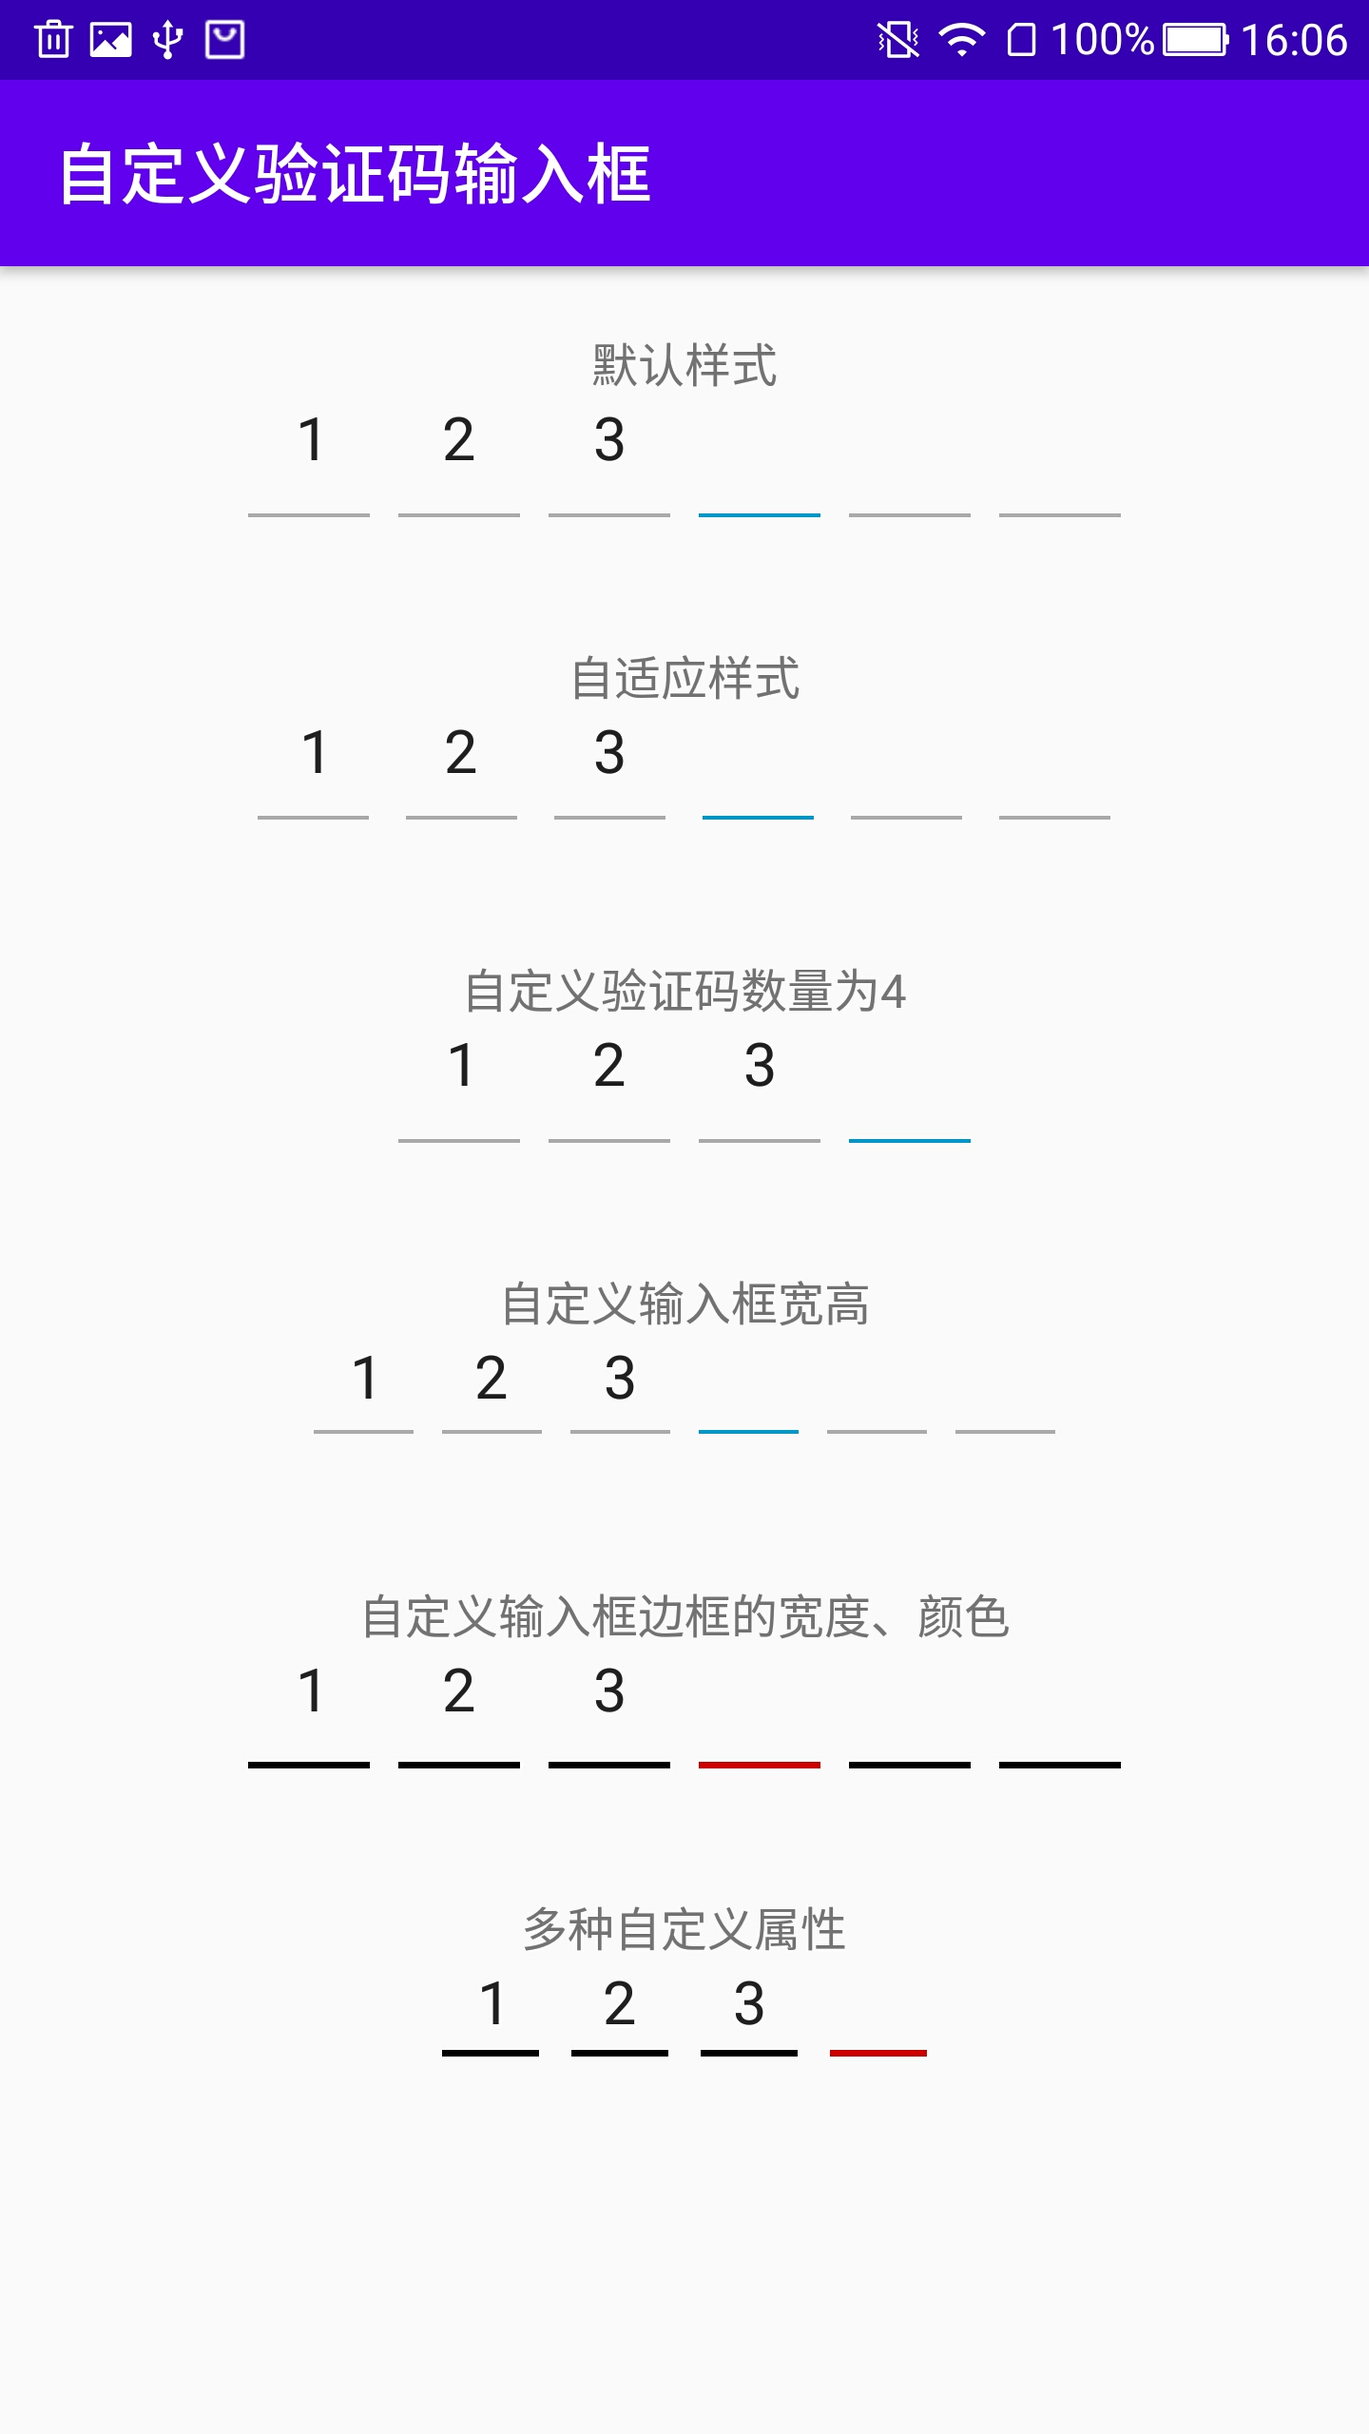
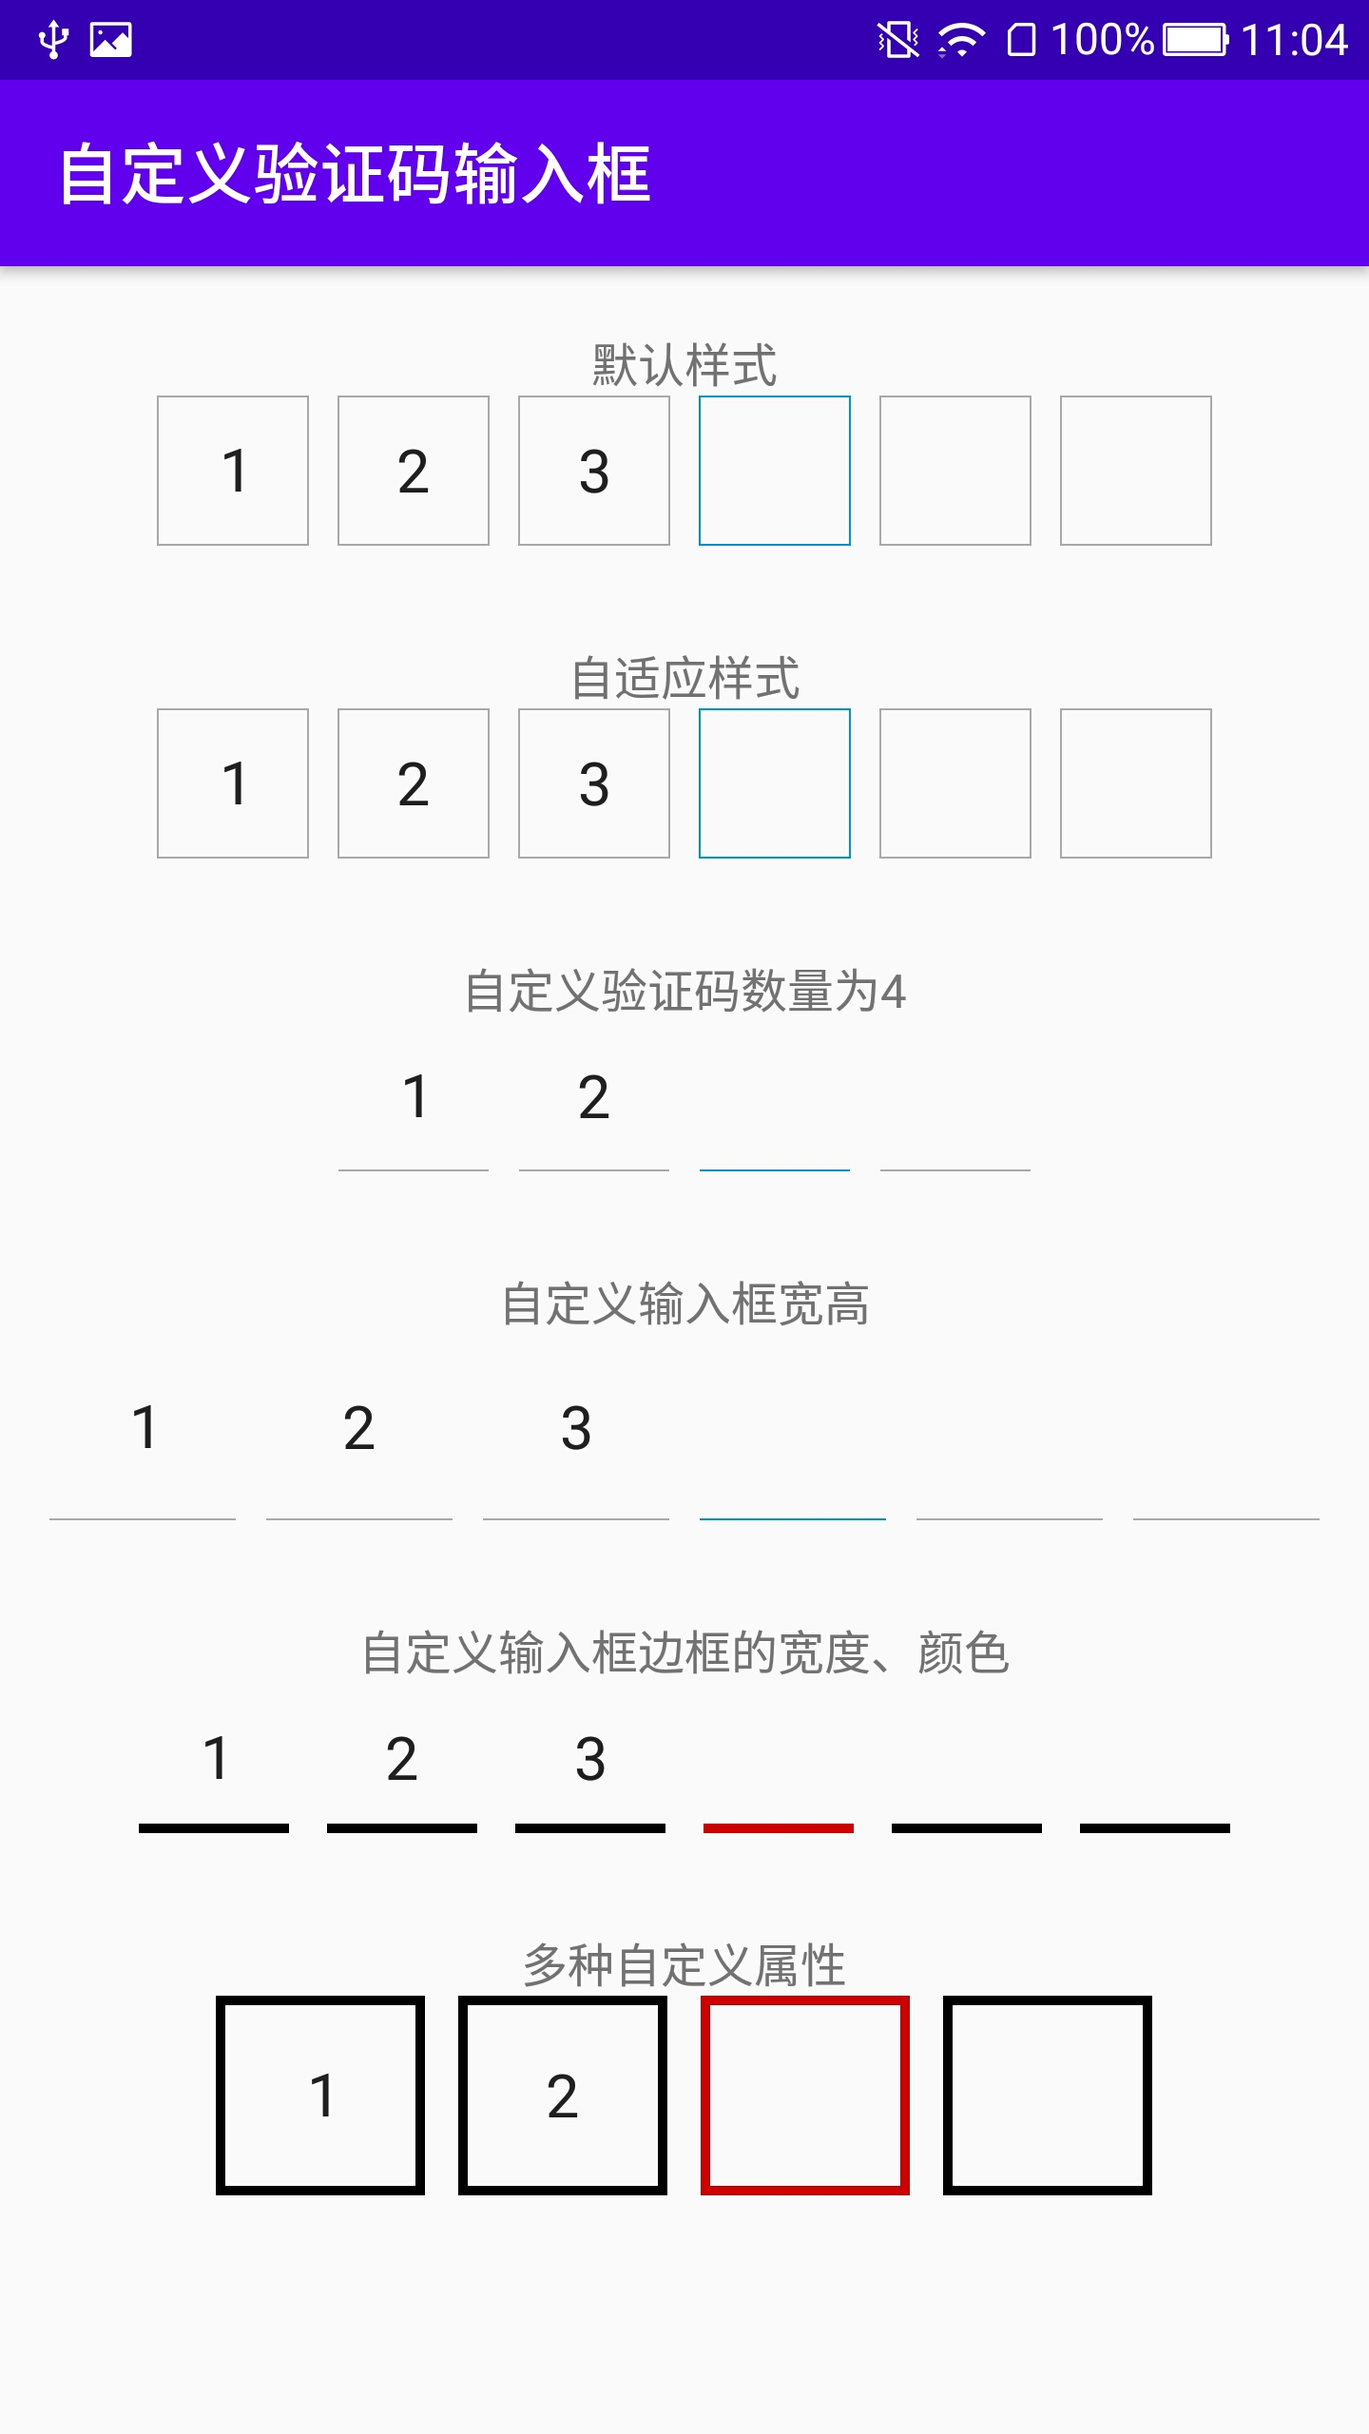
新增矩形输入框
优化输入框绘制及数字绘制；
新增矩形输入框样式：目前可选矩形输入框和线型输入框

diff --git a/view/src/main/java/com/cocoas/view/VerifyCodeInputView.java b/view/src/main/java/com/cocoas/view/VerifyCodeInputView.java
@@ -25,25 +25,34 @@ import androidx.appcompat.widget.AppCompatEditText;
  */
 public class VerifyCodeInputView extends AppCompatEditText {
 
-    //输入框宽度
+    private static final String TAG = "VerifyCodeInputView";
+    /** 输入框类型常量 */
+    private interface BoxType{
+        int LINE = 0;// 底部横线输入框
+        int RECT = 1;// 矩形输入框
+    }
+
+    /*自定义属性↓↓↓*/
+    // 输入框宽度
     private int boxWidth = 128;
-    //输入框高度
+    // 输入框高度
     private int boxHeight = 128;
-    //输入框边框高度
-    private int boxBorderHeight = 4;
-    //输入框间距
+    // 输入框边框高度
+    private int boxBorderHeight = 2;
+    // 输入框间距
     private int boxSpacing = 30;
-    //输入框数量：默认6个
+    // 输入框数量：默认6个
     private int boxCount = 6;
-    //输入框边框默认颜色
+    // 输入框边框默认颜色
     private int boxBorderColorNormal = getResources().getColor(android.R.color.darker_gray);
-    //输入框边框高亮颜色
+    // 输入框边框高亮颜色
     private int boxBorderColorFocused = getResources().getColor(android.R.color.holo_blue_dark);
-    //输入框是否自动适应父布局宽度：如果不自动适应，则以设定的宽高为准
-    private boolean autoFit = false;
-    //输入框宽度与输入框间间距的比例
-    private int spacingRate = 3;
-    //输入框尺寸
+    // 输入框是否自动适应父布局宽度：如果不自动适应，则以设定的宽高为准
+    private boolean autoFit;
+    // 输入框类型
+    private int boxType = BoxType.LINE;
+    /*自定义属性↑↑↑*/
+    //输入框Rect
     private Rect boxRect = new Rect();
     //输入完成监听
     private OnInputFinishedListener onInputFinishedListener;
@@ -56,25 +65,27 @@ public class VerifyCodeInputView extends AppCompatEditText {
         int indexCount = typedArray.getIndexCount();
         //遍历获取自定义属性的值
         for (int i = 0; i < indexCount; i++) {
-            int index = typedArray.getIndex(i);
-            if (index == R.styleable.VerifyCodeInputViewStyle_boxWidth) {
-                this.boxWidth = (int) typedArray.getDimension(index, boxWidth);
-            } else if (index == R.styleable.VerifyCodeInputViewStyle_boxHeight) {
-                this.boxHeight = (int) typedArray.getDimension(index, boxHeight);
-            } else if (index == R.styleable.VerifyCodeInputViewStyle_boxBorderHeight) {
-                this.boxBorderHeight = (int) typedArray.getDimension(index, boxBorderHeight);
-            } else if (index == R.styleable.VerifyCodeInputViewStyle_boxSpacing) {
-                this.boxSpacing = (int) typedArray.getDimension(index, boxSpacing);
-            } else if (index == R.styleable.VerifyCodeInputViewStyle_boxCount) {
-                this.boxCount = typedArray.getInt(index, boxCount);
-            } else if (index == R.styleable.VerifyCodeInputViewStyle_boxBorderColorNormal) {
-                this.boxBorderColorNormal = typedArray.getColor(index,
+            int attr = typedArray.getIndex(i);
+            if (attr == R.styleable.VerifyCodeInputViewStyle_boxWidth) {
+                this.boxWidth = (int) typedArray.getDimension(attr, boxWidth);
+            } else if (attr == R.styleable.VerifyCodeInputViewStyle_boxHeight) {
+                this.boxHeight = (int) typedArray.getDimension(attr, boxHeight);
+            } else if (attr == R.styleable.VerifyCodeInputViewStyle_boxBorderHeight) {
+                this.boxBorderHeight = (int) typedArray.getDimension(attr, boxBorderHeight);
+            } else if (attr == R.styleable.VerifyCodeInputViewStyle_boxSpacing) {
+                this.boxSpacing = (int) typedArray.getDimension(attr, boxSpacing);
+            } else if (attr == R.styleable.VerifyCodeInputViewStyle_boxCount) {
+                this.boxCount = typedArray.getInt(attr, boxCount);
+            } else if (attr == R.styleable.VerifyCodeInputViewStyle_boxBorderColorNormal) {
+                this.boxBorderColorNormal = typedArray.getColor(attr,
                         getResources().getColor(android.R.color.darker_gray));
-            } else if (index == R.styleable.VerifyCodeInputViewStyle_boxBorderColorFocused) {
-                this.boxBorderColorFocused = typedArray.getColor(index,
+            } else if (attr == R.styleable.VerifyCodeInputViewStyle_boxBorderColorFocused) {
+                this.boxBorderColorFocused = typedArray.getColor(attr,
                         getResources().getColor(android.R.color.holo_blue_dark));
-            } else if (index == R.styleable.VerifyCodeInputViewStyle_autoFit) {
-                this.autoFit = typedArray.getBoolean(index, false);
+            } else if (attr == R.styleable.VerifyCodeInputViewStyle_autoFit) {
+                this.autoFit = typedArray.getBoolean(attr, false);
+            } else if (attr == R.styleable.VerifyCodeInputViewStyle_boxType) {
+                this.boxType = typedArray.getInt(attr, BoxType.LINE);
             }
         }
         //使用完TypedArray及时回收，以供其他模块使用
@@ -93,10 +104,11 @@ public class VerifyCodeInputView extends AppCompatEditText {
      * 自动计算输入框宽高和间距
      */
     private void calculateAttrs(int width) {
-        boxSpacing = width / ((spacingRate + 1) * boxCount - 1);
+        // 计算输入框间间距
+        boxSpacing = (width - (boxBorderHeight + boxWidth) * boxCount) / ( boxCount - 1);
 //		Logger.d("getMeasuredWidth()=" + width);
-        boxWidth = boxSpacing * spacingRate;
-        boxHeight = boxWidth;
+//        boxWidth = boxSpacing * spacingRate;
+//        boxHeight = boxWidth;
 //		Logger.w("boxWidth=" + boxWidth + ",boxHeight=" + boxHeight + ",boxSpacing=" + boxSpacing);
     }
 
@@ -125,14 +137,19 @@ public class VerifyCodeInputView extends AppCompatEditText {
         //输入框当前的尺寸与通过自定义属性设置的尺寸进行比较
         int width = getMeasuredWidth();
         int height = getMeasuredHeight();
-//		Logger.w("onMeasure+(" + width + "," + height + ")");
         int widthSpecModel = MeasureSpec.getMode(widthMeasureSpec);
         int heightSpecModel = MeasureSpec.getMode(heightMeasureSpec);
-        //比较输入框当前的高度是否符合设定的高度boxHeight
+        // 比较输入框默认的高度（根据字体大小等自动计算的高度）是否符合设定的高度boxHeight
+        // 最终的高度不能小于输入框默认的高度，以防止输入的数字显示有问题
         if (height < boxHeight) {
             height = boxHeight;
+        }else{
+            // 重置输入框的高度为默认高度
+            boxHeight = height;
         }
-        int actualWidth = boxWidth * boxCount + boxSpacing * (boxCount - 1);
+        // 设置单个输入框的宽高相同
+        boxWidth = boxHeight;
+        int actualWidth = (boxWidth + boxBorderHeight) * boxCount + boxSpacing * (boxCount - 1);
         if (widthSpecModel == MeasureSpec.AT_MOST) {
             width = actualWidth;
         }
@@ -158,35 +175,118 @@ public class VerifyCodeInputView extends AppCompatEditText {
 
     @Override
     protected void onDraw(Canvas canvas) {
-        // 重新绘制输入框
-        drawBox(canvas);
+        // 重新绘制输入框：根据设定的输入框类型属性进行绘制
+        switch (boxType){
+            case BoxType.RECT:// 矩形输入框
+                drawBox(canvas);
+                break;
+            case BoxType.LINE:// 底部横线输入框
+            default:
+                drawLineBox(canvas);
+                break;
+        }
+        // 绘制数字
         drawNumber(canvas);
+//        drawCenterLine(canvas);
     }
 
     /**
-     * 绘制单个数字的输入框
-     *
+     * 绘制中轴线用于校正数字的位置
      * @param canvas
      */
-    private void drawBox(Canvas canvas) {
-        //单个数字输入框的坐标
-        boxRect.left = 0;
-        boxRect.top = boxHeight - boxBorderHeight;
-        boxRect.right = boxWidth;
-        boxRect.bottom = boxHeight;
-        //输入框画笔
+    private void drawCenterLine(Canvas canvas){
+        //获取当前画布保存的状态
+        int saveCount = canvas.getSaveCount();
+        //画布归位
+        canvas.translate(0, 0);
+        //画笔
+        Paint linePaint = new Paint();
+        linePaint.setColor(Color.RED);
+        // 画线段
+        canvas.drawLine(0,boxHeight/2,canvas.getWidth(),boxHeight/2,linePaint);
+        //画布还原
+        canvas.restoreToCount(saveCount);
+    }
+
+    /**
+     * 绘制只有底部横线的输入框
+     * @param canvas
+     */
+    private void drawLineBox(Canvas canvas){
+        // 计算线段坐标（需要考虑画笔的宽度）
+        float startX = boxBorderHeight/2;
+        float startY = boxHeight - boxBorderHeight/2;
+        float stopX = startX + boxWidth;
+        float stopY = startY;
+        /*创建输入框画笔*/
         Paint boxPaint = new Paint();
         //普通输入框颜色
         boxPaint.setColor(boxBorderColorNormal);
+        // 设置画笔样式：描边
+        boxPaint.setStyle(Paint.Style.STROKE);
+        // 设置画笔宽度
+        boxPaint.setStrokeWidth(boxBorderHeight);
         //当前画布保存的状态
         int canvasSaveCount = canvas.getSaveCount();
         //保存画布
         canvas.save();
-        //遍历绘制所有数字输入框
+        /*遍历绘制所有数字输入框*/
+        for (int i = 0; i < boxCount; i++) {
+            canvas.drawLine(startX,startY,stopX,stopY, boxPaint);
+            //计算下一个数字输入框的位置
+            int nextBoxLeft = boxWidth + boxSpacing + boxBorderHeight;
+            //保存画布
+            canvas.save();
+            //画布平移到下一个绘制输入框的位置
+            canvas.translate(nextBoxLeft, 0);
+        }
+        // 还原画布状态
+        canvas.restoreToCount(canvasSaveCount);
+        // 画布归位
+        canvas.translate(0, 0);
+        /*绘制高亮显示数字输入框*/
+        // 获取待输入数字输入框的序号
+        int boxIndex = Math.max(0, getEditableText().length());
+        // 输入完所有数字后不再绘制高亮的输入框
+        if (boxIndex < boxCount) {
+            // 计算此输入框的绘制位置
+            startX = boxBorderHeight/2 + (boxWidth + boxBorderHeight + boxSpacing) * boxIndex;
+            stopX = startX + boxWidth;
+            // 高亮显示输入框的颜色
+            boxPaint.setColor(boxBorderColorFocused);
+            // 绘制高亮输入框
+            canvas.drawLine(startX,startY,stopX,stopY, boxPaint);
+        }
+    }
+
+    /**
+     * 绘制矩形输入框
+     *
+     * @param canvas
+     */
+    private void drawBox(Canvas canvas) {
+        // 计算单个数字输入框的坐标（绘制矩形Rect要为上下左右四条边预留画笔的一半的宽度）
+        boxRect.left = boxBorderHeight/2;
+        boxRect.top = boxBorderHeight/2;
+        boxRect.right = boxWidth + boxRect.left;
+        boxRect.bottom = boxHeight - boxRect.top;
+         /*创建输入框画笔*/
+        Paint boxPaint = new Paint();
+        //普通输入框颜色
+        boxPaint.setColor(boxBorderColorNormal);
+        // 设置画笔样式：描边
+        boxPaint.setStyle(Paint.Style.STROKE);
+        // 设置画笔宽度
+        boxPaint.setStrokeWidth(boxBorderHeight);
+        //当前画布保存的状态
+        int canvasSaveCount = canvas.getSaveCount();
+        //保存画布
+        canvas.save();
+        /*遍历绘制所有数字输入框*/
         for (int i = 0; i < boxCount; i++) {
             canvas.drawRect(boxRect, boxPaint);
             //计算下一个数字输入框的位置
-            int nextBoxLeft = boxRect.right + boxSpacing;
+            int nextBoxLeft = boxWidth + boxSpacing + boxBorderHeight;
             //保存画布
             canvas.save();
             //画布平移到下一个绘制输入框的位置
@@ -196,13 +296,13 @@ public class VerifyCodeInputView extends AppCompatEditText {
         canvas.restoreToCount(canvasSaveCount);
         //画布归位
         canvas.translate(0, 0);
-        //绘制高亮显示数字输入框
+        /*绘制高亮显示数字输入框*/
         //获取待输入数字输入框的序号
         int boxIndex = Math.max(0, getEditableText().length());
         //输入完所有数字后不再绘制高亮的输入框
         if (boxIndex < boxCount) {
             //计算此输入框的绘制位置
-            boxRect.left = (boxWidth + boxSpacing) * boxIndex;
+            boxRect.left =  + boxBorderHeight/2 + (boxWidth + boxSpacing + boxBorderHeight) * boxIndex;
             boxRect.right = boxRect.left + boxWidth;
             //高亮显示输入框的颜色
             boxPaint.setColor(boxBorderColorFocused);
@@ -227,14 +327,16 @@ public class VerifyCodeInputView extends AppCompatEditText {
         TextPaint textPaint = getPaint();
 //		textPaint.setTextSize(txtSize);
         textPaint.setColor(getCurrentTextColor());
+        Rect numberBoundsRect = new Rect();
         //遍历绘制数字
         for (int i = 0; i < numberCount; i++) {
             String numberText = String.valueOf(getEditableText().charAt(i));
             //获取文本大小(重用输入框的Rect)
-            textPaint.getTextBounds(numberText, 0, 1, boxRect);
+            textPaint.getTextBounds(numberText, 0, 1, numberBoundsRect);
             //计算数字的绘制位置
-            int x = boxWidth / 2 - boxRect.centerX() + (boxWidth + boxSpacing) * i;
-            int y = canvas.getHeight() / 2 + boxRect.centerY() / 2;
+            int x = (boxWidth + boxBorderHeight) / 2 - Math.abs(numberBoundsRect.centerX()) + (boxWidth + boxSpacing + boxBorderHeight) * i;
+            int y = (boxHeight + numberBoundsRect.height())/2;
+
             //绘制数字
             canvas.drawText(numberText, x, y, textPaint);
         }
